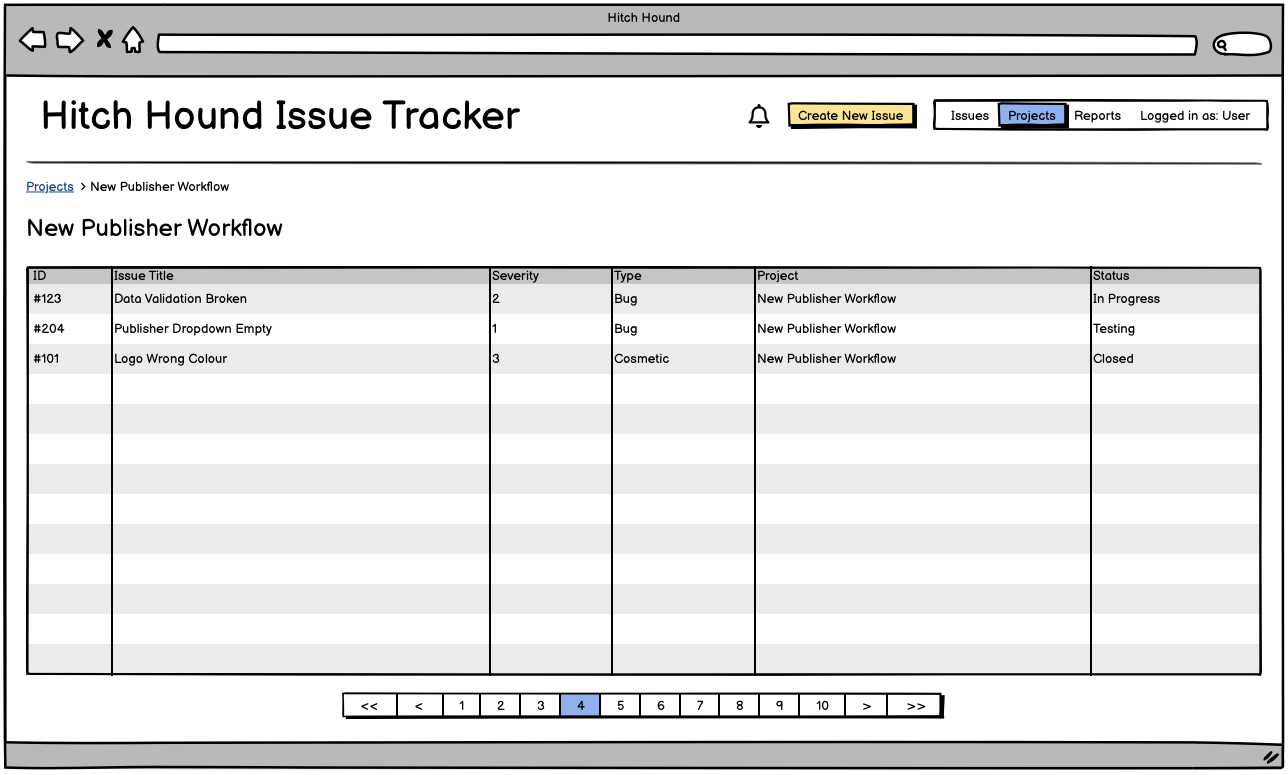
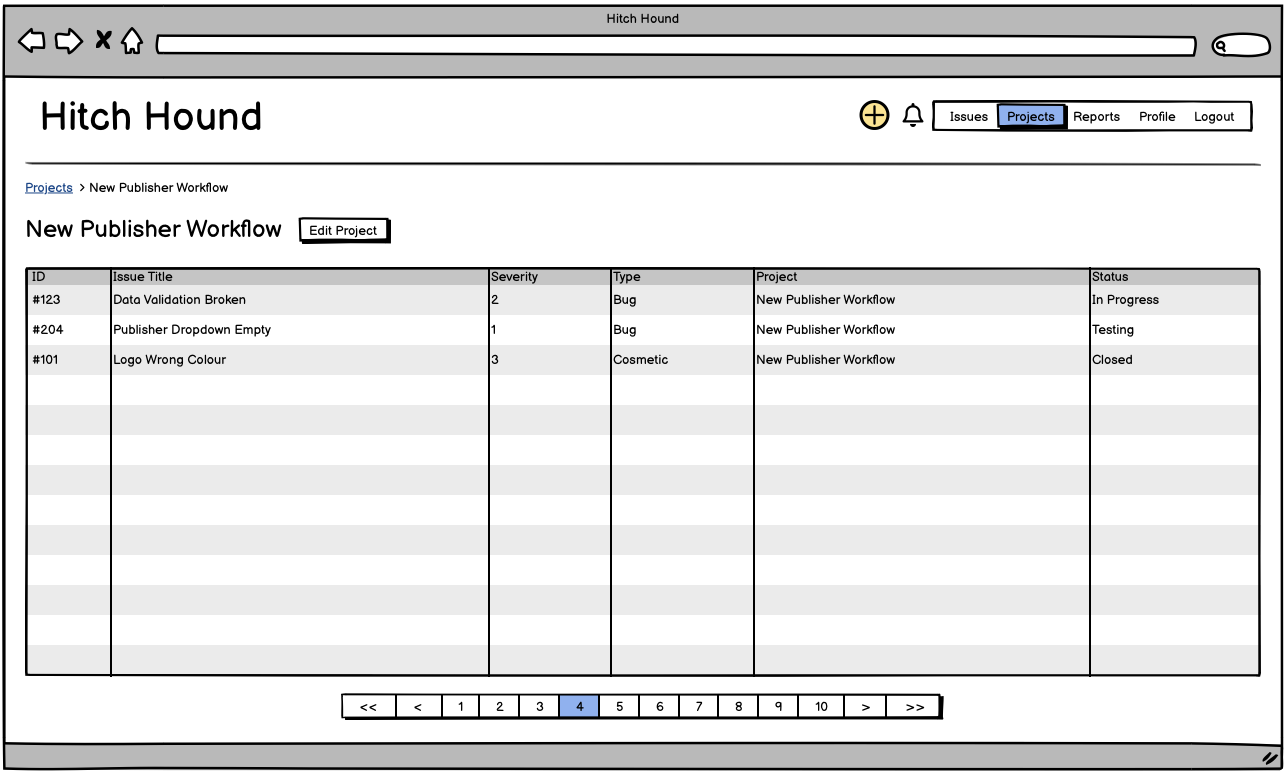
Update README and wireframes

Changed region(s): [[0.0, 0.0, 1.0, 1.0]]

diff --git a/README.md b/README.md
@@ -60,40 +60,40 @@ The security features cover the essentials: authentication with a username and p
 My user stories can be seen in full in the associated GitHub Project on my repo. This is where all the details, including tasks and acceptance criteria can be seen. These user stories have been assigned to Epics.
 
 Epic 1: User Management
-- User Registration <br>
-- User Login and Logout <br>
-- Password Reset <br>
-- Create and Edit Role-Based Permissions <br>
-- View and Assign Superuser Status to Users <br>
+- User Registration 
+- User Login and Logout
+- Password Reset
+- Create and Edit Role-Based Permissions
+- View and Assign Superuser Status to Users
 
 Epic 2: Issue Management 
-- Create Issue <br>
-- Edit Issue <br>
-- View Issues <br>
-- Close, Cancel or Delete Issues <br>
-- Comment on Issues <br>
-- Attach Files to Issues <br>
+- Create Issue
+- Edit Issue 
+- View Issues
+- Close, Cancel or Delete Issues 
+- Comment on Issues
+- Attach Files to Issues
 
 Epic 3: Notifications and Error Messaging
-- Add Meaningful 404 Page <br>
-- Receive Notifications from Other Users' Actions <br>
+- Add Meaningful 404 Page
+- Receive Notifications from Other Users' Actions
 
 Epic 4: Enhanced Issue Management
-- Provide a Change History Log <br>
-- Connect 2+ Issues as Related <br>
-- Search for Issues by Keyword <br>
+- Provide a Change History Log
+- Connect 2+ Issues as Related
+- Search for Issues by Keyword
 
 Epic 5: Project Management
-- Create Project <br>
-- Edit Project <br>
-- Close, Cancel or Delete Projects <br>
+- Create Project
+- Edit Project
+- Delete Projects
 
 Epic 6: Reporting
-- Add Reporting <br>
+- Add Reporting
  
 ### User Journeys
 
-As a lightweight issue tracking program, my goal was to make each user journey as simple as possible with the fewest steps, whilst still providing value and flexibility of working method. There are therefore five basic user journeys: 
+As a lightweight issue tracking program, my goal was to make each user journey as simple as possible with the fewest steps, whilst still providing value and flexibility of working method. There are ten core user journeys. The below is not an exhaustive list of all possible user journeys, just the most important ones:
 
 1. New User
 ```mermaid
@@ -106,9 +106,10 @@ flowchart LR
 2. Create an Issue
 ```mermaid
 flowchart LR
-    A[Log In] --> B[Click 'Create New Issue' button]
-    B --> C[Fill in New Issue form]
-    C --> D[Click 'Submit New Issue' button]
+    A[Log In] --> B[Click '+'\n button]
+    B --> |New Item \nPopup|C[Click 'Issue'\n button]
+    C --> D[Fill in New\n Issue form]
+    D --> E[Click 'Submit \nNew Issue' button]
 ```
 
 3. Browse Issues
@@ -124,20 +125,65 @@ flowchart TD
     H --> I[Select status in dropdown]
     E --> J[Scroll through issues\n and click through pages]
 ```
-4. Close an Issue
+4. Edit an Issue
+```mermaid
+flowchart LR
+    A[Log In] --> B[Navigate to an issue as per \n 'Browse Issues' user journey]
+    B --> C[Click\n 'Edit Issue']
+    C --> D[Amend details\n or add a comment]
+    D --> E[Click\n 'Save Issue']
+```
+
+5. Close, Cancel or Delete an Issue
 ```mermaid
 flowchart LR
     A[Log In] --> B[Navigate to an issue as per\n 'Browse Issues' user journey]
     B --> C[Set status to 'Closed'\n or 'Cancelled']
+    B --> E[Click 'Delete Issue']
+    E --> F[Confirm deletion]
     C --> D[Click 'Save Changes']
 ```
-5. Generate Reports
+6. Create a Project
+```mermaid
+flowchart LR
+    A[Log In] --> B[Click '+'\n button]
+    B --> |New Item \nPopup|C[Click 'Project'\n button]
+    C --> D[Fill in New\n Project form]
+    D --> E[Click 'Create \nNew Project' button]
+```
+
+7. Browse Projects
+```mermaid
+flowchart LR
+    A[Log In] --> B[Click 'Projects' in\n the navigation bar]
+    B --> C[Scroll through projects\n and click through pages]
+```
+
+8. Edit a Project
+```mermaid
+flowchart LR
+    A[Log In] --> B[Navigate to a project as per\n 'Browse Projects' user journey]
+    B --> C[Click 'Edit\n Project' button]
+    C --> D[Amend\n details]
+    D --> E[Click\n 'Save Project']
+```
+
+9. Delete a Project
+```mermaid
+flowchart LR
+    A[Log In] --> B[Navigate to a project as per\n 'Browse Projects' user journey]
+    B --> C[Click 'Delete\n Project' button]
+    C --> D[Confirm deletion]
+```
+
+10. Generate Reports
 ```mermaid
 flowchart LR
     A[Log In] --> B[Click on 'Reports' in\nthe navigation bar]
     B --> C[Click on one of the\n available report buttons]
     C --> D[Adjust settings as needed\n with dropdowns provided]
 ```
+
 ### User Permissions
 
 There are four types of user, each with different permissions.
@@ -183,6 +229,9 @@ The wireframes I created illustrate the core user interface and functionality of
 
 ![individualissue](documentation/individualissue.png)
 
+#### Issue Change History
+
+![changehistory](documentation/changehistory.png)
 
 #### New Issue
 
@@ -197,6 +246,13 @@ The wireframes I created illustrate the core user interface and functionality of
 
 ![individualproject](documentation/individualproject.png)
 
+#### New Project
+
+![newproject](documentation/newproject.png)
+
+#### Edit Project
+
+![editproject](documentation/editproject.png)
 
 #### Reports
 
@@ -212,31 +268,43 @@ The wireframes I created illustrate the core user interface and functionality of
 
 ![notificationmodal](documentation/notificationmodal.png)
 
+#### 404 Page
+
+![404page](documentation/404page.png)
+
 ### Mobile Wireframes
 
 | Sign Up | Log In |
 |---|---|
 |![signupmobile](documentation/signupmobile.png) | ![loginmobile](documentation/loginmobile.png) |
 
-| All Issues |
-|---|
-|![loggedinmobile](documentation/loggedinmobile.png)|
-
-|Individual Issue | New Issue |
+| All Issues | Individual Issue  |
 |---|---|
-| ![individualissuemobile](documentation/individualissuemobile.png) | ![newissuemobile](documentation/newissuemobile.png) |
+|![loggedinmobile](documentation/loggedinmobile.png)| ![individualissuemobile](documentation/individualissuemobile.png)|
+
+|Issue Change History| New Issue |
+|---|---|
+|![changehistorymobile](documentation/changehistorymobile.png) | ![newissuemobile](documentation/newissuemobile.png) |
 
 | Projects | Individual Projects |
 |---|---|
 |![projectsmobile](documentation/projectsmobile.png) | ![individualprojectmobile](documentation/individualprojectmobile.png) |
 
+| New Project | Edit Project |
+|---|---|
+|![newprojectmobile](documentation/newprojectmobile.png) | ![editprojectmobile](documentation/editprojectmobile.png) |
+
 | Reports |
 |---|
-| ![reportsmobile](documentation/reportsmobile.png) |
+| ![reportsmobile](documentation/reportsmobile.png) | 
 
-|User Profile | Notifications |
+| User Profile | Notifications |
 |---|---|
-| ![userprofilemobile](documentation/userprofilemobile.png) | ![notificationmobile](documentation/notificationsmobile.png) |
+|![userprofilemobile](documentation/userprofilemobile.png)| ![notificationmobile](documentation/notificationsmobile.png) |
+
+| 404 Page |
+|---|
+| ![404pagemobile](documentation/404pagemobile.png) |
 
 ### Colour Scheme 
 
@@ -373,7 +441,7 @@ These are the steps I took to set up my infrastructure and deploy my app:
 ## Agile Methodology
 I set this project up in GitHub projects using agile methodology. This facilitated my prioritisation and time management. I added all the user stories as issues and then divided them into 'MVP'(Minimum Viable Product) and 'Future Enhancements' to signify what I intend to complete for my assessed project and what could come later. Those MVP stories were then stack-ranked. I added three one-week sprints to the project and filled my first sprint with my intended work according to the MoSCoW prioritisation system. 
 
-### Sprint One: 03/06 to 09/06
+### Sprint One: 10/06 to 16/06
 ![Sprint One](documentation/sprint1.png)
 
 #### Sprint Planning
@@ -382,9 +450,14 @@ Sprint planning involved taking the highest priority issues from the top of the 
 #### Sprint Retrospective
 - Placeholder 
 
-### Sprint Two: 10/06 to 16/06
+### Sprint Two: 17/06 to 23/06
 
-### Sprint Three: 17/06 to 23/06
+### Sprint Three: 24/06 to 30/06
+
+### Future Development
+Likely to be, at a minimum:
+- Connect 2+ Issues as Related
+- Search for Issues by Keyword
 
 ## Credits
 
